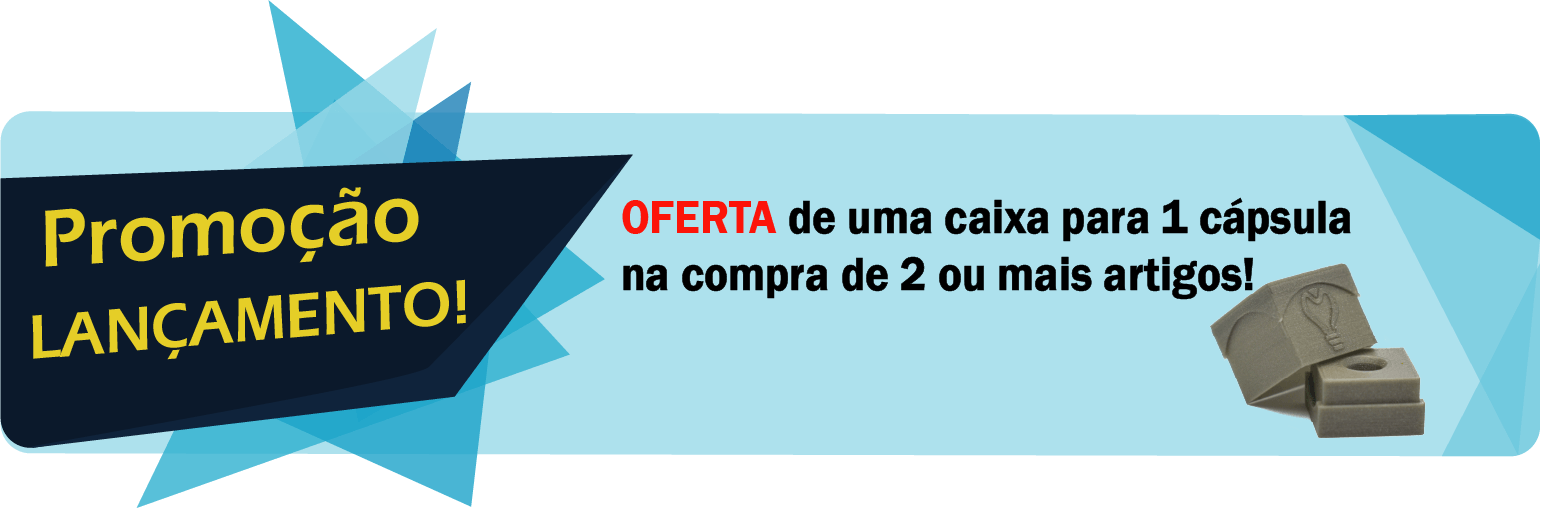
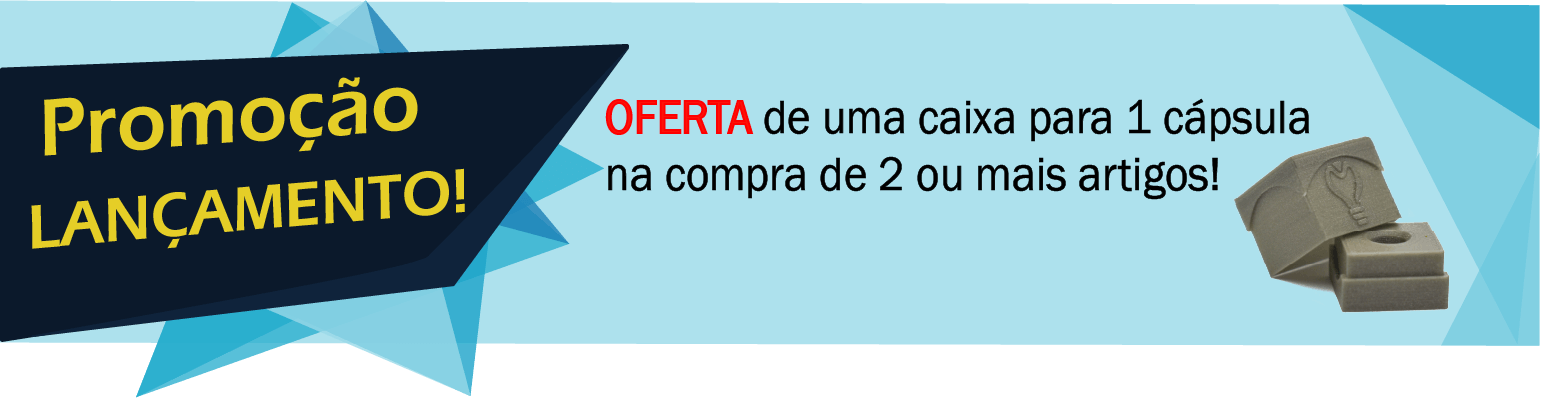
Fixed dar mode colors hopefully

diff --git a/layouts/partials/product/gallery_buy.html b/layouts/partials/product/gallery_buy.html
@@ -20,16 +20,19 @@
 		  <!--<h1 class="mb-4">{{ .Params.gallery_buy.Title }}</h1>-->
 		  <p><strong>{{ i18n "colors" }}:</strong> {{delimit .Params.gallery_buy.colors ", "}}</p>
 		  <p><strong>{{ i18n "sizes" }}:</strong> {{delimit .Params.gallery_buy.sizes ", "}}</p>
-		  <p class="price py-4">
-			{{if .Params.gallery_buy.discount_price}}
-				<s class="price">{{site.Params.currency}}{{ .Params.gallery_buy.price }}</s>
-			{{end}}
-			{{if .Params.gallery_buy.discount_price}}
-				{{site.Params.currency}}{{.Params.gallery_buy.discount_price}}
-			{{else}}
-				{{site.Params.currency}}{{.Params.gallery_buy.price}}
-			{{end}}
-		  </p>
+		  <div class="py-4">
+			<p style="font-weight: 600;"><i class="tf-ion-ios-pricetags"></i> Preço de lançamento:</p>
+			<p class="price">
+				{{if .Params.gallery_buy.discount_price}}
+					<s class="price">{{site.Params.currency}}{{ .Params.gallery_buy.price }}</s>
+				{{end}}
+				{{if .Params.gallery_buy.discount_price}}
+					{{site.Params.currency}}{{.Params.gallery_buy.discount_price}}
+				{{else}}
+					{{site.Params.currency}}{{.Params.gallery_buy.price}}
+				{{end}}
+			</p>
+		  </div>
 		  {{ if .Site.Params.enable_cart }}
 		  <button class="snipcart-add-item btn btn-main mb-5" 
 			data-item-id="{{.Params.gallery_buy.Title | urlize}}__{{if .Params.gallery_buy.discount_price}}{{.Params.gallery_buy.discount_price}}{{else}}{{.Params.gallery_buy.price}}{{end}}"
@@ -48,7 +51,7 @@
 		  {{ else }}
 		  	<!-- Botão para acionar modal -->
 		  	<button type="button" class="btn btn-main mb-5" data-toggle="modal" data-target="#buyContactUs">
-			  Comprar <!--TODO text martelado-->
+			  Encomendar <!--TODO text martelado-->
 		  	</button>
 		  {{ end }}
 		  	<div class="content">
@@ -70,16 +73,21 @@
 	<div class="modal-dialog modal-dialog-centered modal-lg" role="document">
 	  <div class="modal-content">
 		<div class="modal-header">
-		  <h3 class="modal-title" id="modalTitleCenter">Contacte-nos e faça a sua encomenda</h3>
+		  <h3 class="modal-title" id="modalTitleCenter">Para encomendar <strong>{{ .Params.title }}</strong> contacte-nos:</h3>
 		  <button type="button" class="close" data-dismiss="modal" aria-label="Fechar">
 			<span aria-hidden="true">&times;</span>
 		  </button>
 		</div>
 		<div class="modal-body">
 		  
-		  <p>Estamos disponíveis de <strong>segunda</strong> a <strong>sábado</strong> entre <strong>9h-19h</strong>.</p>
+		  <p>Estamos disponíveis de <strong>segunda</strong> a <strong>sábado</strong> entre <strong>9h-19h</strong></p>
+		  <ul class="list-unstyled contact-list">
+			<li class="mb-3"><i class="tf-ion-ios-telephone mr-2"></i><a href="tel:+351932812112"><strong>+351 932812112</strong></a></li>
+			<li class="mb-3"><i class="tf-ion-email mr-2"></i><a href="mailto:meltek3d@gmail.com"><strong>meltek3d@gmail.com</strong></a></li>
+		  </ul>
+		  <hr>
 		  <br>
-		  <p style="font-weight: 400;">Outros produtos em que poderá ter interesse:</p>
+		  <p style="font-weight: 400;">Outros produtos em que também poderá ter interesse:</p>
 		  <!--<a href="#" class="btn btn-main">yup</a>-->
 		  <div class="wrap-modal-slider">
 			<div class="product-slider">
@@ -100,10 +108,6 @@
 			</div>
 		</div>
 		  
-		</div>
-		<div class="modal-footer">
-			<button type="button" class="btn btn-main">meltek3d@gmail.com</button>
-			<button type="button" class="btn btn-main">93xxxxxxx</button>
 		</div>
 	  </div>
 	</div>

diff --git a/layouts/partials/product/features.html b/layouts/partials/product/features.html
@@ -5,6 +5,7 @@
 <style>
   .feature-content {
     padding: 10px;
+    padding-top: 15px;
   }
   .feature-description {
     font-size:x-large;
@@ -12,6 +13,11 @@
   .feature-image-left, .feature-image-right {
     border-radius: 0px 0px 15px 15px;
     padding: 0px;
+    position: relative;
+    z-index: -2;
+  }
+  .feature-image-div-left, .feature-image-div-right {
+    border-radius: 0px 0px 15px 15px;
   }
   .feature-card {
     background-color: white;
@@ -28,6 +34,11 @@
     padding: 0px;
   }
 
+  .inner-shadow-div-left, .inner-shadow-div-right {
+    box-shadow: inset 0px 3px 3px 0px white;
+  }
+
+
   @media (min-width: 768px) {
     .feature-image-left {
       border-radius: 15px 0px 0px 15px;
@@ -36,6 +47,18 @@
     .feature-image-right {
       border-radius: 0px 15px 15px 0px;
       padding: 0px;
+    }
+    .feature-image-div-left {
+      border-radius: 15px 0px 0px 15px;
+    }
+    .feature-image-div-right {
+      border-radius: 0px 15px 15px 0px;
+    }
+    .inner-shadow-div-left {
+      box-shadow: inset -3px 0px 3px 0px white;
+    }
+    .inner-shadow-div-right {
+      box-shadow: inset 3px 0px 3px 0px white;
     }
   }
 </style>
@@ -53,7 +76,7 @@
 
     {{ with .first_item}}
     <div class="row mb-40 feature-card" data-aos="fade-zoom-in">
-      <div class="align-self-center text-center text-md-left">
+      <div class="text-center text-md-left">
         <div class="content feature-content">
           <h4 class="subheading">
             <svg xmlns="http://www.w3.org/2000/svg" width="16" height="16" fill="currentColor" class="bi bi-caret-right-fill bullet-arrow" viewBox="0 0 16 16">
@@ -80,10 +103,10 @@
     {{- if ne (mod $index 2) 1 }}
     <br>
     <div class="row mb-40 feature-card" data-aos="fade-zoom-in">
-      <div class="col-md-6 nopadding order-md-1 order-2 text-center mb-lg-0">
+      <div class="col-md-6 nopadding order-md-1 order-2 text-center mb-lg-0 feature-image-div-left inner-shadow-div-left">
         <img class="img-fluid feature-image-left" src="{{ .image | absURL }}" alt="">
       </div>
-      <div class="col-md-6 nopadding order-md-2 order-1 align-self-center text-center text-md-left">
+      <div class="col-md-6 nopadding order-md-2 order-1 text-center text-md-left">
         <div class="content feature-content">
           <h4 class="subheading">
             <svg xmlns="http://www.w3.org/2000/svg" width="16" height="16" fill="currentColor" class="bi bi-caret-right-fill bullet-arrow" viewBox="0 0 16 16">
@@ -104,7 +127,7 @@
     {{- else }}
     <br>
     <div class="row mb-40 feature-card" data-aos="fade-zoom-in">
-      <div class="col-md-6 nopadding align-self-center text-center text-md-left">
+      <div class="col-md-6 nopadding text-center text-md-left">
         <div class="content feature-content">
           <h4 class="subheading">
             <svg xmlns="http://www.w3.org/2000/svg" width="16" height="16" fill="currentColor" class="bi bi-caret-right-fill bullet-arrow" viewBox="0 0 16 16">
@@ -120,7 +143,7 @@
           {{ end }}
         </div>
       </div>
-      <div class="col-md-6 nopadding text-center mb-lg-0">
+      <div class="col-md-6 nopadding text-center mb-lg-0 feature-image-div-right inner-shadow-div-right">
         <img class="img-fluid feature-image-right" src="{{ .image | absURL }}" alt="">
       </div>
     </div>

diff --git a/layouts/partials/headerBanner.html b/layouts/partials/headerBanner.html
@@ -1,0 +1,19 @@
+{{ $data := index .Site.Data .Site.Language.Lang }}
+
+{{ if $data.homepage.headerBanner.enable }}
+
+{{ with $data.homepage.headerBanner }}
+<section class="section" style="padding: 0px">
+  <div class="container">
+    <div class="row" onclick="location.href=''" style="cursor: pointer;">
+      <picture class="img-fluid">
+        <source 
+           media="(max-width: 767px)"
+           srcset="{{ .imageSmall | absURL }}">
+        <img class="img-fluid round-corners" src="{{ .image | absURL }}" alt="promo">
+     </picture>
+    </div>
+  </div>
+</section>
+{{ end }}
+{{ end }}

diff --git a/layouts/partials/promo.html b/layouts/partials/promo.html
@@ -2,17 +2,11 @@
 
 {{ if $data.homepage.promo.enable }}
 
-<style>
-  .round-corners {
-    border-radius: 10px;
-  }
-</style>
-
 {{ with $data.homepage.promo }}
-<section class="section">
+<section class="section" style="padding-top: 20px; padding-bottom: 0px">
   <div class="container">
-    <div class="row">
-      <picture class="img-fluid round-corners">
+    <div class="row" onclick="location.href=''" style="cursor: pointer;">
+      <picture class="img-fluid">
         <source 
            media="(max-width: 767px)"
            srcset="{{ .imageSmall | absURL }}">

diff --git a/layouts/index.html b/layouts/index.html
@@ -2,6 +2,8 @@
 
 <!--TODO check which ones to use and which one to remove-->
 
+  {{ partial "headerBanner" . }}
+  
   {{ partial "banner" . }}
 
   {{ partial "features" . }}

diff --git a/layouts/about/list.html b/layouts/about/list.html
@@ -1,6 +1,6 @@
 {{ define "main" }}
 
-{{ partial "about/about_us" . }}
+<!--{{ partial "about/about_us" . }}-->
 
 {{ partial "about/contacts" . }}
 

diff --git a/content/portuguese/products/product_2.md b/content/portuguese/products/product_2.md
@@ -38,10 +38,10 @@ gallery_buy:
   size : 3
   
   info:
-    - "Utilize esta caixa para preparar as suas cápsulas de forma fácil e rápida.
-      Pode ainda armazenar e transportar as mesmas de forma segura e prática."
-    - "Dimensões: 64x25x26mm"
-    - "Material: PLA"
+      - "Para preparar as suas cápsulas de forma fácil e rápida.
+        Pode ainda transportar e armazenar-las de forma prática e segura."
+      - "Material: PLA (Poliácido láctico) - plástico biodegradável e biocompatível."
+      - "Dimensões: 64x25x26mm"
 
 ############################# Feature ############################
 features:
@@ -59,27 +59,27 @@ features:
       link  : "#"
   items :        
     # about product item loop
-    - image  : "images/products/feature2.png"
+    - image  : "images/products/feature2.jpg"
       title  : "Ajude o Ambiente"
-      content: "Recorremos a um material biodegradável para a produção, reduzindo o impacto negativo no ambiente."
+      content: "Recorremos a PLA, um material plástico biodegradável, reduzindo o impacto negativo no ambiente."
       button:
         enable: false
         label : "Check Features"
         link  : "#"
 
     # about product item loop
-    - image  : "images/products/feature3.png"
+    - image  : "images/products/feature3.jpg"
       title  : "Poupe Tempo"
-      content: "5x mais rápido prepara múltiplas cápsulas."
+      content: "Seja mais rápido/a a preparar as suas cápsulas."
       button:
         enable: false
         label : "Check Features"
         link  : "#"
         
     # about product item loop
-    - image  : "images/products/feature4_1.png"
-      title  : "Armazenamento e transporte"
-      content: "Guarde várias cápsulas de forma segura, nesta nossa caixa desenhada à medida."
+    - image  : "images/products/feature4.png"
+      title  : "Armazenamento e Transporte"
+      content: "Nesta caixa desenhada à medida pode armazenar e transportar as suas cápsulas de forma segura."
       button:
         enable: false
         label : "Check Features"

diff --git a/content/portuguese/products/product_1.md b/content/portuguese/products/product_1.md
@@ -39,8 +39,8 @@ gallery_buy:
   size : 6
   
   info:
-    - "Utilize esta caixa para preparar as suas cápsulas de forma fácil e rápida.
-      Pode ainda armazenar e transportar as mesmas de forma segura e prática."
+    - "Para preparar as suas cápsulas de forma fácil e rápida.
+      Pode ainda transportar e armazenar-las de forma prática e segura."
     - "Material: PLA (Poliácido láctico) - plástico biodegradável e biocompatível."
     - "Dimensões: 64x44x26mm."
 
@@ -61,27 +61,27 @@ features:
       link  : "#"
   items :        
     # about product item loop
-    - image  : "images/products/feature2.png"
+    - image  : "images/products/feature2.jpg"
       title  : "Ajude o Ambiente"
-      content: "Recorremos a um material biodegradável para a produção, reduzindo o impacto negativo no ambiente."
+      content: "Recorremos a PLA, um material plástico biodegradável, reduzindo o impacto negativo no ambiente."
       button:
         enable: false
         label : "Check Features"
         link  : "#"
 
     # about product item loop
-    - image  : "images/products/feature3.png"
+    - image  : "images/products/feature3.jpg"
       title  : "Poupe Tempo"
-      content: "5x mais rápido prepara múltiplas cápsulas."
+      content: "Seja mais rápido/a a preparar as suas cápsulas."
       button:
         enable: false
         label : "Check Features"
         link  : "#"
         
     # about product item loop
-    - image  : "images/products/feature4_1.png"
-      title  : "Armazenamento e transporte"
-      content: "Guarde várias cápsulas de forma segura, nesta nossa caixa desenhada à medida."
+    - image  : "images/products/feature4.png"
+      title  : "Armazenamento e Transporte"
+      content: "Nesta caixa desenhada à medida pode armazenar e transportar as suas cápsulas de forma segura."
       button:
         enable: false
         label : "Check Features"

diff --git a/content/portuguese/about/_index.md b/content/portuguese/about/_index.md
@@ -4,7 +4,7 @@ description : "Somos isto e aquilo e cenas muito fixes, vocês vão adorar o que
 
 contacts:
   title : "Contactos"
-  mobile : "+351932812112"
+  mobile : "+351 932812112"
   email : "meltek3d@gmail.com" #FIXME
   location : "Algarve, Portugal" #TODO Review Algarve?
   content : 
